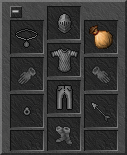
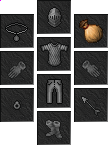
Cleanup

diff --git a/style.css b/style.css
@@ -11,28 +11,36 @@ body {
     transform: translate(-50%, -50%);
     width: 900px;
     height: 600px;
+    
+    image-rendering: crisp-edges;
 
     font-family: 'Roboto Mono', monospace;
 
     
-    border-top: 3px solid #737373;
-    border-left: 3px solid #737373;
-    border-right: 3px solid #282828;
-    border-bottom: 3px solid #282828;
-    
 }
 
 .inventoryCanvas {
-    background-image: url("./assets/InventoryBackground.png");/*127px, 155px;*/
+    background-image: url("./assets/InventoryBackground.png"); /*<!-- 108px / 145px -->*/
 
     position: absolute;
     top: 10%;
-    left: 5%;
     
-    width:  254px;
-    height: 310px;
+    width: 216px;
+    height: 290px;
     background-size: 100%;
     
+}
+
+.inventoryTile {
+    
+    width: 32px;
+    height: 32px;
+
+    border: black solid 3px;
+    image-rendering: pixelated;
+    image-rendering: crisp-edges;
+    background: grey;
+
 }
 
 .tibiaBorder{

diff --git a/assets/getTibiaSprites.html b/assets/getTibiaSprites.html
@@ -176,8 +176,6 @@
         }
 
         function loadAndDrawSprite(id, removeIdx) {
-            //console.log('Drawing: ' + id);
-
             //limpar o desenho antigo antes de fazer outro
             ctx.clearRect(0, 0, 32, 32);
 
@@ -239,15 +237,6 @@
             link.click();
         }
 
-        function dlCanvas() {
-            
-            const link = document.createElement('a');
-            link.download = downloadInput.value + '.png';
-            
-            const cvIndex = downloadInput.value % limit;
-            link.href = document.getElementById(`canvas${cvIndex}`).toDataURL();
-            link.click();
-        }
     </script>
 </body>
 

diff --git a/index.html b/index.html
@@ -11,8 +11,9 @@
     <title>Destroyerrr</title>
 </head>
 <body>
-    <canvas class="mainCanvas" id="canvas"> </canvas>
-    <canvas class="inventoryCanvas" id="invCanvas"> </canvas>
+    <canvas class="mainCanvas tibiaBorder"id="canvas"> </canvas>
+    <canvas class="tibiaBorder inventoryCanvas" id="invCanvas"> </canvas> 
+    
 
 
     <script src="script.js" type="module"> </script>

diff --git a/objects/defender.js b/objects/defender.js
@@ -3,7 +3,6 @@ import { Sprite } from "../sprite.js";
 
 export class Defender {
     constructor(ctx, x, y, width, height){
-        console.log(`${x} e ${y}`);
         this.ctx = ctx;
         this.x = x;
         this.y = y;
